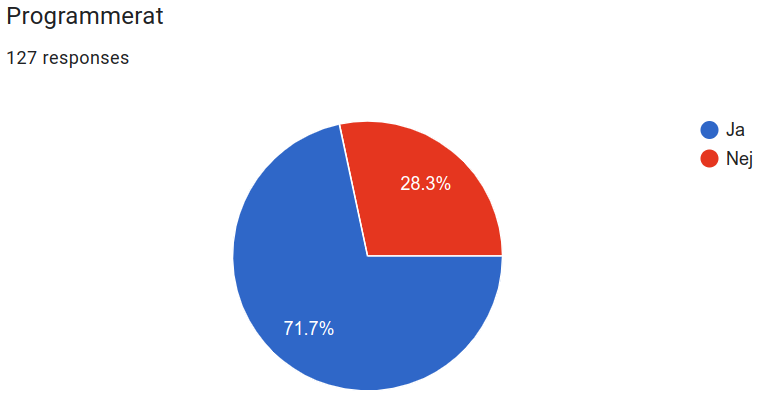
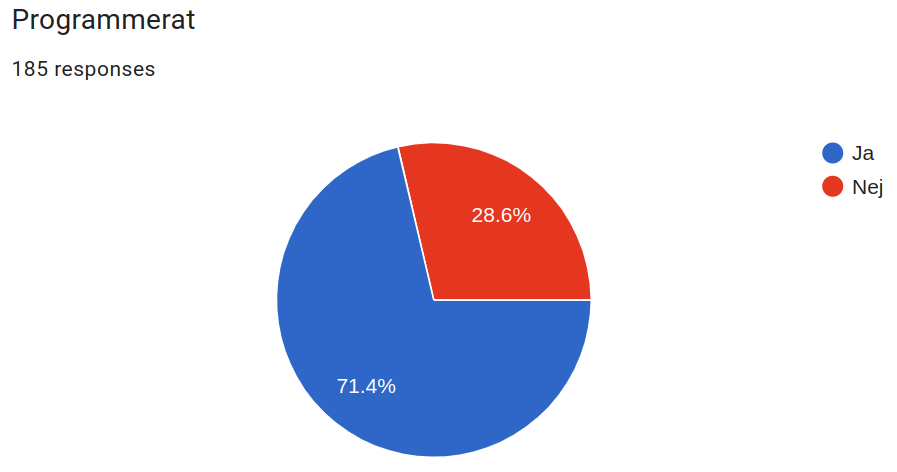
add survey summary

diff --git a/slides/body/lect-w01-about.tex b/slides/body/lect-w01-about.tex
@@ -243,14 +243,13 @@ Dessa läroböcker följer inte direkt kursens upplägg vad gäller omfång och 
 
 \begin{SlideExtra}{Bokpaketet}\SlideFontSmall
 \begin{itemize}
+\item Kompendiet och snabbreferens trycks här i E-huset och säljs av institutionen till \Emph{självkostnadspris}. Se info i Canvas.
 
 \item \Emph{Kompendiet} finns i pdf för fri nedladdning enl. licensen CC-BY-SA, men det \Alert{rekommenderas starkt} att du även använder pappersversionen.
 
 \item För de flesta funkar det mycket bättre att ha övningar och labbar \Alert{på papper} \Emph{bredvid skärmen}, när du ska tänka, koda och plugga!
 
 \item \Emph{Snabbreferensen} finns också i pdf men du behöver ha en tryckt version eftersom det är \Alert{enda tillåtna hjälpmedlet} på skriftliga kontrollskrivningen och tentamen. \\ Säljs separat för 35kr på Datavetenskaps expedition.
-
-\item Kompendiet och snabbreferens trycks här i E-huset och säljs av institutionen till \Emph{självkostnadspris}. Se info i Canvas.
 
 \end{itemize}
 \end{SlideExtra}
@@ -271,35 +270,41 @@ Dessa läroböcker följer inte direkt kursens upplägg vad gäller omfång och 
 \begin{SlideExtra}{Personal \CurrentYear}\SlideFontSmall
 \begin{description}
 \item [\bfseries Kursansvarig:] Prof. Björn Regnell, bjorn.regnell@cs.lth.se, E:2413
-\item [\bfseries Handledare:]\Emph{teknologer:}\\
+\item [\bfseries Handledare:]\Emph{teknologer} som jobbar som övn. ass. 
+% I kaptenalloc sbt console: 
+%scala> Tutor.personGrid.mapRows(rm => rm("förnamn") + " " + rm("efternamn")).size
+%scala> Tutor.personGrid.mapRows(rm => rm("förnamn") + " " + rm("efternamn")).mkString(", ")
+%2022
+(31 st)\\
+Ahmad Ghaemi, Anna Grimlund, Axel Nilsson, André Philipsson Eriksson, Alexander Sandström, Dag Hemberg, Erik Bergrahm, Evelyn Beck, Elsa Cervetti Ogestad, Evelina Danielsson, Emma Jansson, Esbjörn Stenberg, Fróði Karlsson, Hanyu Lin, Hugo Persson, Jonathan Cederlund, Johannes Hardt, Jon Swedberg, Julius Thunström, Ludvig Lindholm, Maria Svensson, Milla Widell, Noah Andreasson, Niklas Sandén, Olof Bengtsson, Oliver Levay, Patrik Gyllvin, Philip Sadrian, Pontus Sjöstedt
 %2021
-Alfred Grip,
-Anna Johannesson,
-André Philipsson, Eriksson
-Dag Hemberg,
-Erik Bergrahm,
-Elsa Cervetti, Ogestad
-Emma Jansson,
-Emmanuel Kring,
-Erik Lundberg,
-Esbjörn Stenberg,
-Fritjof Bengsson,
-Frodi Karlsson,
-Jon Swedberg,
-Linnea Allander,
-Madeleine Berild,
-Marcus Klang,
-Maria Kulesh,
-Maria Svensson,
-Nils Ceberg,
-Niklas Sandén,
-Patrik Gyllvin,
-Philip Sadrian,
-Paul Wuilmart,
-Evelyn Beck,
-Samer Alkhodary,
-Theodor Lundqvist,
-Julius Thunström
+% Alfred Grip,
+% Anna Johannesson,
+% André Philipsson, Eriksson
+% Dag Hemberg,
+% Erik Bergrahm,
+% Elsa Cervetti, Ogestad
+% Emma Jansson,
+% Emmanuel Kring,
+% Erik Lundberg,
+% Esbjörn Stenberg,
+% Fritjof Bengsson,
+% Frodi Karlsson,
+% Jon Swedberg,
+% Linnea Allander,
+% Madeleine Berild,
+% Marcus Klang,
+% Maria Kulesh,
+% Maria Svensson,
+% Nils Ceberg,
+% Niklas Sandén,
+% Patrik Gyllvin,
+% Philip Sadrian,
+% Paul Wuilmart,
+% Evelyn Beck,
+% Samer Alkhodary,
+% Theodor Lundqvist,
+% Julius Thunström
 %2020:
 % Anna	Johannesson,
 % Alexander	Sandström,
@@ -473,7 +478,7 @@ Exempel på efterföljande kurser som bygger vidare på denna:
 \end{SlideExtra}
 
 
-\SlideImg{Stor spridning i förkunskaper}{../img/survey-2021.png}
+\SlideImg{Stor spridning i förkunskaper}{../img/survey-2022.png}
 
 %%% AAAARGH -- version clash ? or something causing thins in Ubuntu 20.04 
 %%%   but not in ubuntu 18.04:
@@ -568,7 +573,7 @@ Exempel på efterföljande kurser som bygger vidare på denna:
 %%%
 \begin{SlideExtra}{Varför studera i samarbetsgrupper?}
 
-Huvudsyfte: \Emph{Bra lärande!}
+Huvudsyfte: \Emph{Djupinriktat lärande!}
 
 \begin{itemize}
 \item Pedagogisk forskning stödjer tesen att lärandet blir mer djupinriktat om det sker i utbyte med andra
